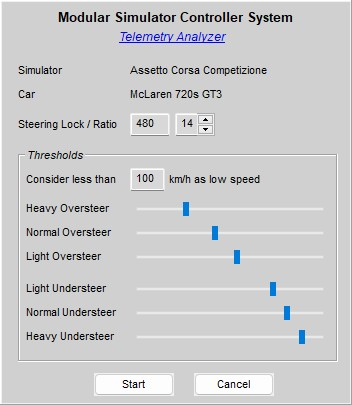
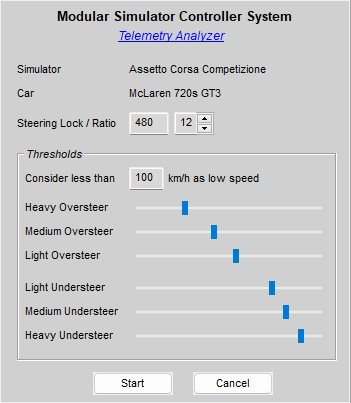
Telemetry Analyzer Part 10

diff --git a/Sources/Special/ACC SHM Spotter/ACC SHM Spotter/ACC SHM Spotter.cpp b/Sources/Special/ACC SHM Spotter/ACC SHM Spotter/ACC SHM Spotter.cpp
@@ -619,12 +619,12 @@ const int numRecentGLongs = 6;
 std::vector<CornerDynamics> cornerDynamicsList;
 
 string dataFile = "";
-int understeerLowThreshold = 12;
+int understeerLightThreshold = 12;
 int understeerMediumThreshold = 20;
-int understeerHighThreshold = 35;
-int oversteerLowThreshold = 2;
+int understeerHeavyThreshold = 35;
+int oversteerLightThreshold = 2;
 int oversteerMediumThreshold = -6;
-int oversteerHighThreshold = -10;
+int oversteerHeavyThreshold = -10;
 int lowspeedThreshold = 100;
 int steerLock = 900;
 int steerRatio = 14;
@@ -719,19 +719,19 @@ void writeTelemetry() {
 	try {
 		output.open(dataFile + ".tmp", ios::out, ios::trunc);
 
-		int slowLowUSNum[] = { 0, 0, 0 };
+		int slowLightUSNum[] = { 0, 0, 0 };
 		int slowMediumUSNum[] = { 0, 0, 0 };
-		int slowHighUSNum[] = { 0, 0, 0 };
-		int slowLowOSNum[] = { 0, 0, 0 };
+		int slowHeavyUSNum[] = { 0, 0, 0 };
+		int slowLightOSNum[] = { 0, 0, 0 };
 		int slowMediumOSNum[] = { 0, 0, 0 };
-		int slowHighOSNum[] = { 0, 0, 0 };
+		int slowHeavyOSNum[] = { 0, 0, 0 };
 		int slowTotalNum = 0;
-		int fastLowUSNum[] = { 0, 0, 0 };
+		int fastLightUSNum[] = { 0, 0, 0 };
 		int fastMediumUSNum[] = { 0, 0, 0 };
-		int fastHighUSNum[] = { 0, 0, 0 };
-		int fastLowOSNum[] = { 0, 0, 0 };
+		int fastHeavyUSNum[] = { 0, 0, 0 };
+		int fastLightOSNum[] = { 0, 0, 0 };
 		int fastMediumOSNum[] = { 0, 0, 0 };
-		int fastHighOSNum[] = { 0, 0, 0 };
+		int fastHeavyOSNum[] = { 0, 0, 0 };
 		int fastTotalNum = 0;
 
 		vector <CornerDynamics>::iterator cornerIter;
@@ -741,54 +741,54 @@ void writeTelemetry() {
 
 			if (corner.speed < lowspeedThreshold) {
 				slowTotalNum++;
-				if (corner.usos < oversteerHighThreshold) {
-					slowHighOSNum[phase]++;
+				if (corner.usos < oversteerHeavyThreshold) {
+					slowHeavyOSNum[phase]++;
 				}
 				else if (corner.usos < oversteerMediumThreshold) {
 					slowMediumOSNum[phase]++;
 				}
-				else if (corner.usos < oversteerLowThreshold) {
-					slowLowOSNum[phase]++;
+				else if (corner.usos < oversteerLightThreshold) {
+					slowLightOSNum[phase]++;
 				}
-				else if (corner.usos > understeerHighThreshold) {
-					slowHighUSNum[phase]++;
+				else if (corner.usos > understeerHeavyThreshold) {
+					slowHeavyUSNum[phase]++;
 				}
 				else if (corner.usos > understeerMediumThreshold) {
 					slowMediumUSNum[phase]++;
 				}
-				else if (corner.usos > understeerLowThreshold) {
-					slowLowUSNum[phase]++;
+				else if (corner.usos > understeerLightThreshold) {
+					slowLightUSNum[phase]++;
 				}
 			}
 			else {
 				fastTotalNum++;
-				if (corner.usos < oversteerHighThreshold) {
-					fastHighOSNum[phase]++;
+				if (corner.usos < oversteerHeavyThreshold) {
+					fastHeavyOSNum[phase]++;
 				}
 				else if (corner.usos < oversteerMediumThreshold) {
 					fastMediumOSNum[phase]++;
 				}
-				else if (corner.usos < oversteerLowThreshold) {
-					fastLowOSNum[phase]++;
+				else if (corner.usos < oversteerLightThreshold) {
+					fastLightOSNum[phase]++;
 				}
-				else if (corner.usos > understeerHighThreshold) {
-					fastHighUSNum[phase]++;
+				else if (corner.usos > understeerHeavyThreshold) {
+					fastHeavyUSNum[phase]++;
 				}
 				else if (corner.usos > understeerMediumThreshold) {
 					fastMediumUSNum[phase]++;
 				}
-				else if (corner.usos > understeerLowThreshold) {
-					fastLowUSNum[phase]++;
+				else if (corner.usos > understeerLightThreshold) {
+					fastLightUSNum[phase]++;
 				}
 			}
 		}
 
-		output << "[Understeer.Slow.Low]" << endl;
+		output << "[Understeer.Slow.Light]" << endl;
 
 		if (slowTotalNum > 0) {
-			output << "Entry=" << (int)(100.0f * slowLowUSNum[0] / slowTotalNum) << endl;
-			output << "Apex=" << (int)(100.0f * slowLowUSNum[1] / slowTotalNum) << endl;
-			output << "Exit=" << (int)(100.0f * slowLowUSNum[2] / slowTotalNum) << endl;
+			output << "Entry=" << (int)(100.0f * slowLightUSNum[0] / slowTotalNum) << endl;
+			output << "Apex=" << (int)(100.0f * slowLightUSNum[1] / slowTotalNum) << endl;
+			output << "Exit=" << (int)(100.0f * slowLightUSNum[2] / slowTotalNum) << endl;
 		}
 
 		output << "[Understeer.Slow.Medium]" << endl;
@@ -799,20 +799,20 @@ void writeTelemetry() {
 			output << "Exit=" << (int)(100.0f * slowMediumUSNum[2] / slowTotalNum) << endl;
 		}
 
-		output << "[Understeer.Slow.High]" << endl;
+		output << "[Understeer.Slow.Heavy]" << endl;
 
 		if (slowTotalNum > 0) {
-			output << "Entry=" << (int)(100.0f * slowHighUSNum[0] / slowTotalNum) << endl;
-			output << "Apex=" << (int)(100.0f * slowHighUSNum[1] / slowTotalNum) << endl;
-			output << "Exit=" << (int)(100.0f * slowHighUSNum[2] / slowTotalNum) << endl;
+			output << "Entry=" << (int)(100.0f * slowHeavyUSNum[0] / slowTotalNum) << endl;
+			output << "Apex=" << (int)(100.0f * slowHeavyUSNum[1] / slowTotalNum) << endl;
+			output << "Exit=" << (int)(100.0f * slowHeavyUSNum[2] / slowTotalNum) << endl;
 		}
 
-		output << "[Understeer.Fast.Low]" << endl;
+		output << "[Understeer.Fast.Light]" << endl;
 
 		if (fastTotalNum > 0) {
-			output << "Entry=" << (int)(100.0f * fastLowUSNum[0] / fastTotalNum) << endl;
-			output << "Apex=" << (int)(100.0f * fastLowUSNum[1] / fastTotalNum) << endl;
-			output << "Exit=" << (int)(100.0f * fastLowUSNum[2] / fastTotalNum) << endl;
+			output << "Entry=" << (int)(100.0f * fastLightUSNum[0] / fastTotalNum) << endl;
+			output << "Apex=" << (int)(100.0f * fastLightUSNum[1] / fastTotalNum) << endl;
+			output << "Exit=" << (int)(100.0f * fastLightUSNum[2] / fastTotalNum) << endl;
 		}
 
 		output << "[Understeer.Fast.Medium]" << endl;
@@ -823,20 +823,20 @@ void writeTelemetry() {
 			output << "Exit=" << (int)(100.0f * fastMediumUSNum[2] / fastTotalNum) << endl;
 		}
 
-		output << "[Understeer.Fast.High]" << endl;
+		output << "[Understeer.Fast.Heavy]" << endl;
 
 		if (fastTotalNum > 0) {
-			output << "Entry=" << (int)(100.0f * fastHighUSNum[0] / fastTotalNum) << endl;
-			output << "Apex=" << (int)(100.0f * fastHighUSNum[1] / fastTotalNum) << endl;
-			output << "Exit=" << (int)(100.0f * fastHighUSNum[2] / fastTotalNum) << endl;
+			output << "Entry=" << (int)(100.0f * fastHeavyUSNum[0] / fastTotalNum) << endl;
+			output << "Apex=" << (int)(100.0f * fastHeavyUSNum[1] / fastTotalNum) << endl;
+			output << "Exit=" << (int)(100.0f * fastHeavyUSNum[2] / fastTotalNum) << endl;
 		}
 
-		output << "[Oversteer.Slow.Low]" << endl;
+		output << "[Oversteer.Slow.Light]" << endl;
 
 		if (slowTotalNum > 0) {
-			output << "Entry=" << (int)(100.0f * slowLowOSNum[0] / slowTotalNum) << endl;
-			output << "Apex=" << (int)(100.0f * slowLowOSNum[1] / slowTotalNum) << endl;
-			output << "Exit=" << (int)(100.0f * slowLowOSNum[2] / slowTotalNum) << endl;
+			output << "Entry=" << (int)(100.0f * slowLightOSNum[0] / slowTotalNum) << endl;
+			output << "Apex=" << (int)(100.0f * slowLightOSNum[1] / slowTotalNum) << endl;
+			output << "Exit=" << (int)(100.0f * slowLightOSNum[2] / slowTotalNum) << endl;
 		}
 
 		output << "[Oversteer.Slow.Medium]" << endl;
@@ -847,20 +847,20 @@ void writeTelemetry() {
 			output << "Exit=" << (int)(100.0f * slowMediumOSNum[2] / slowTotalNum) << endl;
 		}
 
-		output << "[Oversteer.Slow.High]" << endl;
+		output << "[Oversteer.Slow.Heavy]" << endl;
 
 		if (slowTotalNum > 0) {
-			output << "Entry=" << (int)(100.0f * slowHighOSNum[0] / slowTotalNum) << endl;
-			output << "Apex=" << (int)(100.0f * slowHighOSNum[1] / slowTotalNum) << endl;
-			output << "Exit=" << (int)(100.0f * slowHighOSNum[2] / slowTotalNum) << endl;
+			output << "Entry=" << (int)(100.0f * slowHeavyOSNum[0] / slowTotalNum) << endl;
+			output << "Apex=" << (int)(100.0f * slowHeavyOSNum[1] / slowTotalNum) << endl;
+			output << "Exit=" << (int)(100.0f * slowHeavyOSNum[2] / slowTotalNum) << endl;
 		}
 
-		output << "[Oversteer.Fast.Low]" << endl;
+		output << "[Oversteer.Fast.Light]" << endl;
 
 		if (fastTotalNum > 0) {
-			output << "Entry=" << (int)(100.0f * fastLowOSNum[0] / fastTotalNum) << endl;
-			output << "Apex=" << (int)(100.0f * fastLowOSNum[1] / fastTotalNum) << endl;
-			output << "Exit=" << (int)(100.0f * fastLowOSNum[2] / fastTotalNum) << endl;
+			output << "Entry=" << (int)(100.0f * fastLightOSNum[0] / fastTotalNum) << endl;
+			output << "Apex=" << (int)(100.0f * fastLightOSNum[1] / fastTotalNum) << endl;
+			output << "Exit=" << (int)(100.0f * fastLightOSNum[2] / fastTotalNum) << endl;
 		}
 
 		output << "[Oversteer.Fast.Medium]" << endl;
@@ -871,12 +871,12 @@ void writeTelemetry() {
 			output << "Exit=" << (int)(100.0f * fastMediumOSNum[2] / fastTotalNum) << endl;
 		}
 
-		output << "[Oversteer.Fast.High]" << endl;
+		output << "[Oversteer.Fast.Heavy]" << endl;
 
 		if (fastTotalNum > 0) {
-			output << "Entry=" << (int)(100.0f * fastHighOSNum[0] / fastTotalNum) << endl;
-			output << "Apex=" << (int)(100.0f * fastHighOSNum[1] / fastTotalNum) << endl;
-			output << "Exit=" << (int)(100.0f * fastHighOSNum[2] / fastTotalNum) << endl;
+			output << "Entry=" << (int)(100.0f * fastHeavyOSNum[0] / fastTotalNum) << endl;
+			output << "Apex=" << (int)(100.0f * fastHeavyOSNum[1] / fastTotalNum) << endl;
+			output << "Exit=" << (int)(100.0f * fastHeavyOSNum[2] / fastTotalNum) << endl;
 		}
 
 		output.close();
@@ -1008,12 +1008,12 @@ int main(int argc, char* argv[])
 		if (analyzeTelemetry) {
 			dataFile = argv[2];
 
-			understeerLowThreshold = atoi(argv[3]);
+			understeerLightThreshold = atoi(argv[3]);
 			understeerMediumThreshold = atoi(argv[4]);
-			understeerHighThreshold = atoi(argv[5]);
-			oversteerLowThreshold = atoi(argv[6]);
+			understeerHeavyThreshold = atoi(argv[5]);
+			oversteerLightThreshold = atoi(argv[6]);
 			oversteerMediumThreshold = atoi(argv[7]);
-			oversteerHighThreshold = atoi(argv[8]);
+			oversteerHeavyThreshold = atoi(argv[8]);
 			lowspeedThreshold = atoi(argv[9]);
 			steerLock = atoi(argv[10]);
 			steerRatio = atoi(argv[11]);

diff --git a/Docs/Setup Advisor.md b/Docs/Setup Advisor.md
@@ -33,7 +33,7 @@ In this dialog you can initialize the analyzer for your car and you targeted dri
   - If you don't like understeering, move the corresponding sliders to the left.
   - And so on...
   
-You must experiment with the positions of the thresholds, until the analyzer will *reflect* your desired driving style and will only collect those over- and understeer events, which you want to *report*. The settings you choose, will be remembered for each simulator / track / car combination, so you have to dial them only once.
+You must experiment with the positions of the thresholds, until the analyzer will *reflect* your desired driving style and will only collect those over- and understeer issues, which you want to *report*. The settings you choose, will be remembered for each simulator / track / car combination, so you have to dial them only once.
 
 Note: It is recommended to choose a car before entering the analyzer mode, since then some of the values in this dialog will be initialized with car specific data.
 
@@ -41,13 +41,13 @@ Once you have dialed your settings, you can click on "Start"
 
 ![](https://github.com/SeriousOldMan/Simulator-Controller/blob/Development/Docs/Images/Telemetry%20Analyzer%202.JPG)
 
-Go to the track and drive acouple of laps. Always the last 2 laps will be considered by the analyzer, therefore you can "Stop", the analyzer, when have run two consecutive decent laps. The analyzer will show you now, which handling events it detected.
+Go to the track and drive acouple of laps. Always the last 2 laps will be considered by the analyzer, therefore you can "Stop" the recording, when you have run two consecutive decent laps. The analyzer will show you now, which handling issues it detected.
 
 ![](*)
 
-You can use the threshold slider here to *filter* unimportant events, which you don't want to be considered. Moving the slider to the right will remove all events, whose frequency percentage is below the set threshold. If you want to include all events, set the slider completely to the left.
+For each individual handling issue category, for example *low speed corner entry understeering*, the "Frequency" shows how often this happens related to the overall track length and the "Intensity" shows the category (*Light*, *Medium* or *Heavy*) according to your initial settings. You can use the threshold slider here to *filter* unimportant issues, which you don't want to be considered. Moving the slider to the right will remove all issues, whose frequency percentage is below the set threshold. If you want to include all issues, set the slider completely to the left.
 
-When you are satiesfied with the displayed handling events, click on "Apply". The analyzer will clear all current handling issues from "Setup Advisor" and will create new ones for the selected events. Please note, that all events for a given issue category, for example "Understeer on low speed corner entry", will be combined into one issue in the problem list.
+When you are satiesfied with the displayed handling issues, click on "Apply". The analyzer will clear all current handling issues from the left pane of the "Setup Advisor" and will create new ones for the recorded issues. Please note, that all issues for a given category, for example "Understeer on low speed corner entry", will be combined into one issue in the problem list.
 
 Final note: I would like to take the opportunity to thank the user "WallyM" of the *Assetto Corsa Competizione* forum, who provided parts of the algorithms used in the analyzer.
 

diff --git a/Docs/Updates.md b/Docs/Updates.md
@@ -45,7 +45,7 @@ Note: Some of you might want to have more control. No problem. All the files in 
 
 ## Release 4.5.0
 
-No manual updates necessary.
+No manual tasks required.
 
 ***
 
